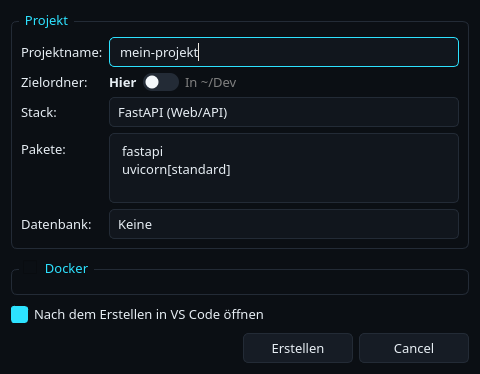
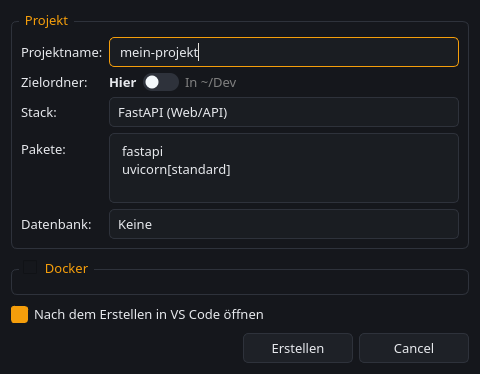
Theme an SoftCenter angelehnt: Anthrazit + Amber statt Cyan
Palette (_BG/_PANEL/_PANEL_ALT/_BORDER/_TEXT/_TEXT_MUTED/_ACCENT/...)
übernimmt die Dark-Werte aus softcenter/theme.py: Hintergrund #15171c,
Flächen #1e2127, Rahmen #2e323b, Akzent Amber #f59e0b. Schrift auf
Akzentflächen jetzt über _ACCENT_TEXT (#1a1204) statt hartcodiertem
Dunkelcyan. Orte-Leiste bekommt wie in SoftCenter die etwas dunklere
Seitenleisten-Farbe (#111318). README-Screenshots neu aufgenommen.

Nur im Offscreen-Rendering geprüft (Hauptfenster, Projekt-Dialog), nicht
in der echten Oberfläche.

diff --git a/fm.py b/fm.py
@@ -133,15 +133,20 @@ from PySide6.QtWidgets import (
 # damit nichts aus dem Rahmen fällt.
 # --------------------------------------------------------------------------
 
-_BG = "#0b0f14"
-_PANEL = "#11161d"
-_PANEL_ALT = "#161c25"
-_BORDER = "#232b36"
-_TEXT = "#e6edf3"
-_TEXT_MUTED = "#7d8793"
-_ACCENT = "#2de2ff"
-_ACCENT_DIM = "#1aa8c4"
-_ACCENT_SOFT = "rgba(45, 226, 255, 40)"
+# Palette an SoftCenter angelehnt (softcenter/theme.py, Dark): neutrales
+# Anthrazit, Amber als Akzent. _ACCENT_TEXT ist die Schriftfarbe auf
+# Akzentflächen (dort "accent_text").
+_BG = "#15171c"
+_PANEL = "#1a1d22"
+_PANEL_ALT = "#1e2127"
+_BORDER = "#2e323b"
+_TEXT = "#e6e8ec"
+_TEXT_MUTED = "#8b919c"
+_ACCENT = "#f59e0b"
+_ACCENT_DIM = "#d97706"
+_ACCENT_SOFT = "rgba(245, 158, 11, 40)"
+_ACCENT_TEXT = "#1a1204"
+_SIDEBAR = "#111318"
 
 
 def _hex_to_rgb(hex_color: str) -> tuple[int, int, int]:
@@ -155,7 +160,7 @@ QWidget {{
     color: {_TEXT};
     font-size: 13px;
     selection-background-color: {_ACCENT};
-    selection-color: #04141a;
+    selection-color: {_ACCENT_TEXT};
 }}
 
 QToolTip {{
@@ -280,7 +285,7 @@ QPushButton:hover, QToolButton:hover {{
 }}
 QPushButton:pressed, QToolButton:pressed {{
     background-color: {_ACCENT_DIM};
-    color: #04141a;
+    color: {_ACCENT_TEXT};
 }}
 QPushButton:checked, QToolButton:checked {{
     background-color: {_ACCENT_SOFT};
@@ -2983,6 +2988,7 @@ class BookmarksPanel(QWidget):
         self.tree = QTreeWidget(self)
         self.tree.setHeaderHidden(True)
         self.tree.setIndentation(12)
+        self.tree.setStyleSheet(f"QTreeWidget {{ background-color: {_SIDEBAR}; }}")
         self.tree.itemClicked.connect(self._on_item_clicked)
         self.tree.setContextMenuPolicy(Qt.CustomContextMenu)
         self.tree.customContextMenuRequested.connect(self._show_context_menu)
